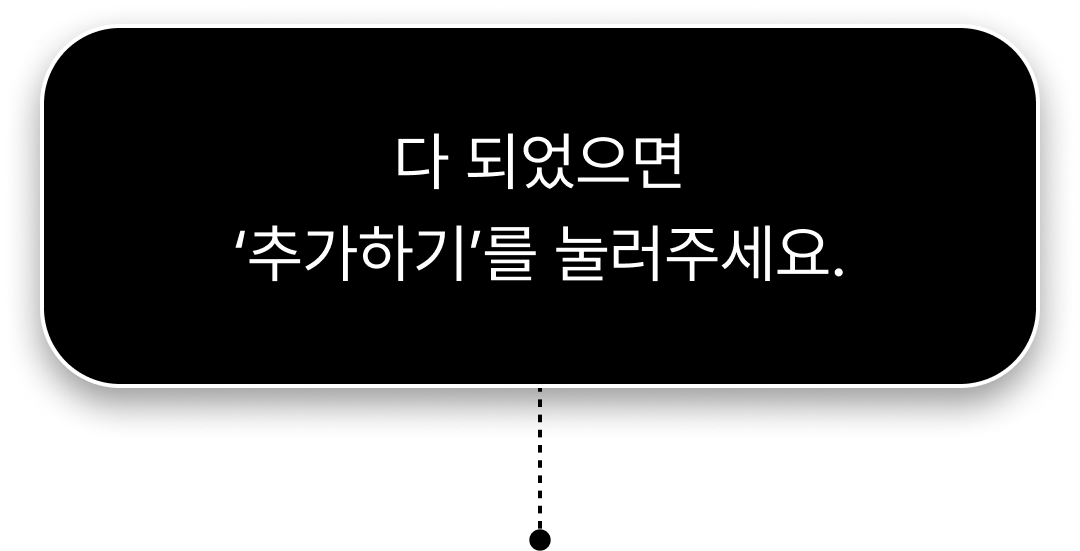
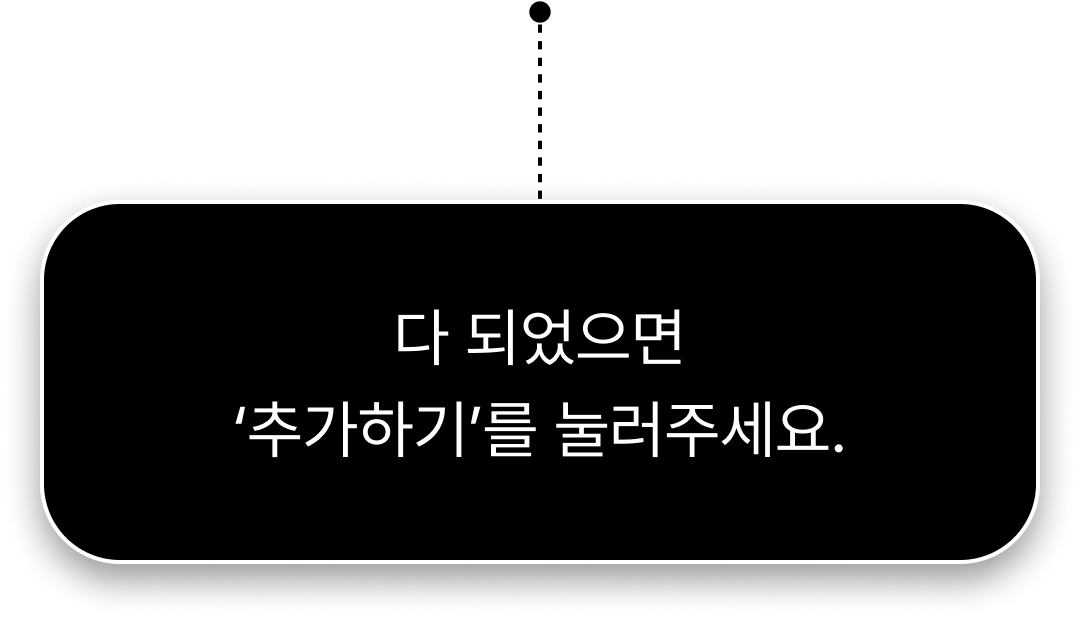
#193 feat: tutorial 수정

diff --git a/src/components/organisms/TodoModal/AddTodoModal.tsx b/src/components/organisms/TodoModal/AddTodoModal.tsx
@@ -7,13 +7,11 @@ import {
   ScrollView,
   View,
 } from "react-native";
-import { useDispatch } from "react-redux";
 import styled, { useTheme } from "styled-components/native";
 import { IsoString } from "../../../@types/calendar";
 import { spacing } from "../../../constants/spacing";
 import useTodos from "../../../hooks/useTodos";
 import useValue from "../../../hooks/useValue";
-import { AppDispatch } from "../../../store/configureStore";
 import {
   useAppDispatch,
   useAppSelect,
@@ -25,14 +23,13 @@ import {
   useAddTodoMutation,
   useEditTodoMutation,
 } from "../../../store/modules/todo/todo";
+import { setStep2 } from "../../../store/modules/tutorial";
 import Icons from "../../atoms/Icons";
 import Text from "../../atoms/Text";
 import Section from "../../molecules/Section";
 import TutorialBox from "../../molecules/TutorialBox";
 import ProjectItemList from "./ProjectItemList";
 import ValueSlider from "./ValueSlider";
-import { removeData } from "../../../utils/asyncStorage";
-import { setStep2, setStep3 } from "../../../store/modules/tutorial";
 
 const AddTodoOverlay = styled.Pressable`
   position: absolute;
@@ -449,7 +446,7 @@ export default function AddTodoModal() {
             {showTutorial && tutorialShown2 ? (
               <TutorialBox
                 type={3}
-                style={{ bottom: 37, left: 15, height: 150 }}
+                style={{ top: 50, left: 15, height: 150 }}
                 ratio={0.65}
               />
             ) : null}

diff --git a/src/screens/SNS/RankingScreen.tsx b/src/screens/SNS/RankingScreen.tsx
@@ -5,7 +5,7 @@ import MyInfo from "../../components/organisms/SNS/MyInfo";
 import RankingContainer from "../../components/organisms/SNS/RankingContainer";
 import { spacing } from "../../constants/spacing";
 import useHeight from "../../hooks/useHeight";
-import { useAppDispatch } from "../../store/configureStore.hooks";
+import { useAppDispatch, useAppSelect } from "../../store/configureStore.hooks";
 import { getFriendsThunk } from "../../store/modules/getFriends";
 import createBadgeDispatcher from "../../utils/badgeUtils/badge";
 
@@ -19,10 +19,20 @@ const Container = styled.View`
 const RankingScreen = ({ navigation }) => {
   const dispatch = useAppDispatch();
   const { NOTCH_TOP } = useHeight();
+  const { follower_count } = useAppSelect((state) => state.user.user);
 
   useEffect(() => {
     dispatch(getFriendsThunk());
   }, []);
+
+  const badgeDispatcher = createBadgeDispatcher(dispatch);
+
+  useEffect(() => {
+    // 팔로워 10명 돌파
+    if (follower_count >= 10) badgeDispatcher.reached10Followers();
+    // 팔로워 42명 돌파
+    if (follower_count >= 42) badgeDispatcher.reached42Followers();
+  }, [follower_count]);
 
   return (
     <Container style={{ paddingTop: NOTCH_TOP }}>

diff --git a/src/store/modules/auth.ts b/src/store/modules/auth.ts
@@ -121,6 +121,25 @@ const authSlice = createSlice({
 
       console.log("소셜로그인 성공: ", state);
     },
+    setUnRegister: (state) => {
+      // asyncStorage에서 토큰 제거
+      AsyncStorage.removeItem("accessToken");
+      AsyncStorage.removeItem("refreshToken");
+      AsyncStorage.removeItem("accessExp");
+      AsyncStorage.removeItem("refreshExp");
+      AsyncStorage.removeItem("strategy");
+      AsyncStorage.removeItem("firstTime");
+      AsyncStorage.removeItem("deviceId");
+
+      state.accessToken = "";
+      state.accessExp = 0;
+      state.refreshExp = 0;
+      state.deviceId = "";
+      state.strategy = "";
+      state.isLoggedIn = false;
+      state.loading = false;
+      state.error = null;
+    },
   },
   extraReducers: (builder) => {
     // 이메일 회원가입
@@ -251,7 +270,12 @@ const authSlice = createSlice({
   },
 });
 
-export const { setAccessToken, setStrategy, setLoggedIn, setSocialLoggedIn } =
-  authSlice.actions;
+export const {
+  setAccessToken,
+  setStrategy,
+  setLoggedIn,
+  setSocialLoggedIn,
+  setUnRegister,
+} = authSlice.actions;
 
 export const authReducer = authSlice.reducer;

diff --git a/src/screens/Settings/UnSubscribeScreen.tsx b/src/screens/Settings/UnSubscribeScreen.tsx
@@ -14,6 +14,7 @@ import { spacing } from "../../constants/spacing";
 import { useClient } from "../../hooks/useClient";
 import { useAppDispatch, useAppSelect } from "../../store/configureStore.hooks";
 import useResponsiveFontSize from "../../utils/useResponsiveFontSize";
+import { setUnRegister } from "../../store/modules/auth";
 
 const THEME_CONSTANTS = {
   dark: {
@@ -61,13 +62,16 @@ const UnSubscribeScreen = () => {
       Alert.alert("회원 탈퇴 유의사항에 동의해주세요.");
     } else {
       try {
-        // 백엔드 미완성
         const res = await client.delete(
           "account/setting/unregister",
-          {},
+          { content: reason },
           { accessToken }
         );
         console.log(res);
+        const { result } = res;
+        if (result === "success") {
+          await dispatch(setUnRegister());
+        }
       } catch (e) {
         console.log("회원 탈퇴 실패: ", e);
       }
